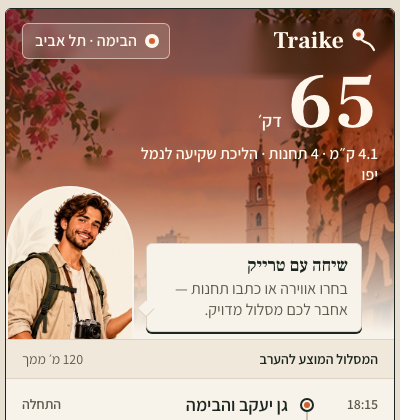
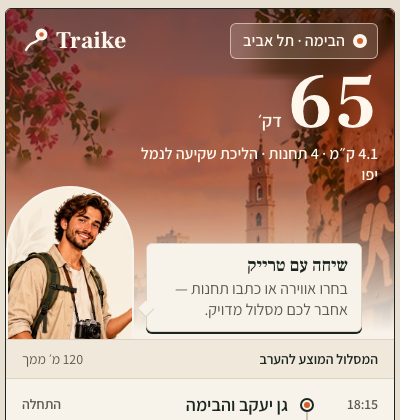
Design round 13d: Traike brand stays on the left in Hebrew

Changed region(s): [[0.57, 0.031, 0.96, 0.1548], [0.03, 0.031, 0.45, 0.1548]]

diff --git a/docs/design-brief/gemini/13-blend.html b/docs/design-brief/gemini/13-blend.html
@@ -1631,6 +1631,9 @@ SELF-CHECK ANSWERS:
   .band-art-home::before{background:linear-gradient(180deg,#6E2A22 0%,#9A4630 45%,#C27A52 80%,#E6B084 100%)!important;opacity:.82!important}
   .band-home-hero .hero-num{font-size:76px}
   .band-home-hero .plan-title-wrap{max-width:72%}
+  html[dir="rtl"] .band-topbar{direction:ltr}
+  html[dir="rtl"] .band-topbar .brand .rtl-flip{transform:none}
+  html[dir="rtl"] .band-topbar .loc-chip{direction:rtl}
   html[dir="rtl"] .guide-stage{direction:ltr}
   html[dir="rtl"] .speech-card{direction:rtl}
   html[dir="rtl"] .speech-card::before{inset-inline-start:auto;left:-7px;right:auto;transform:rotate(45deg)}
